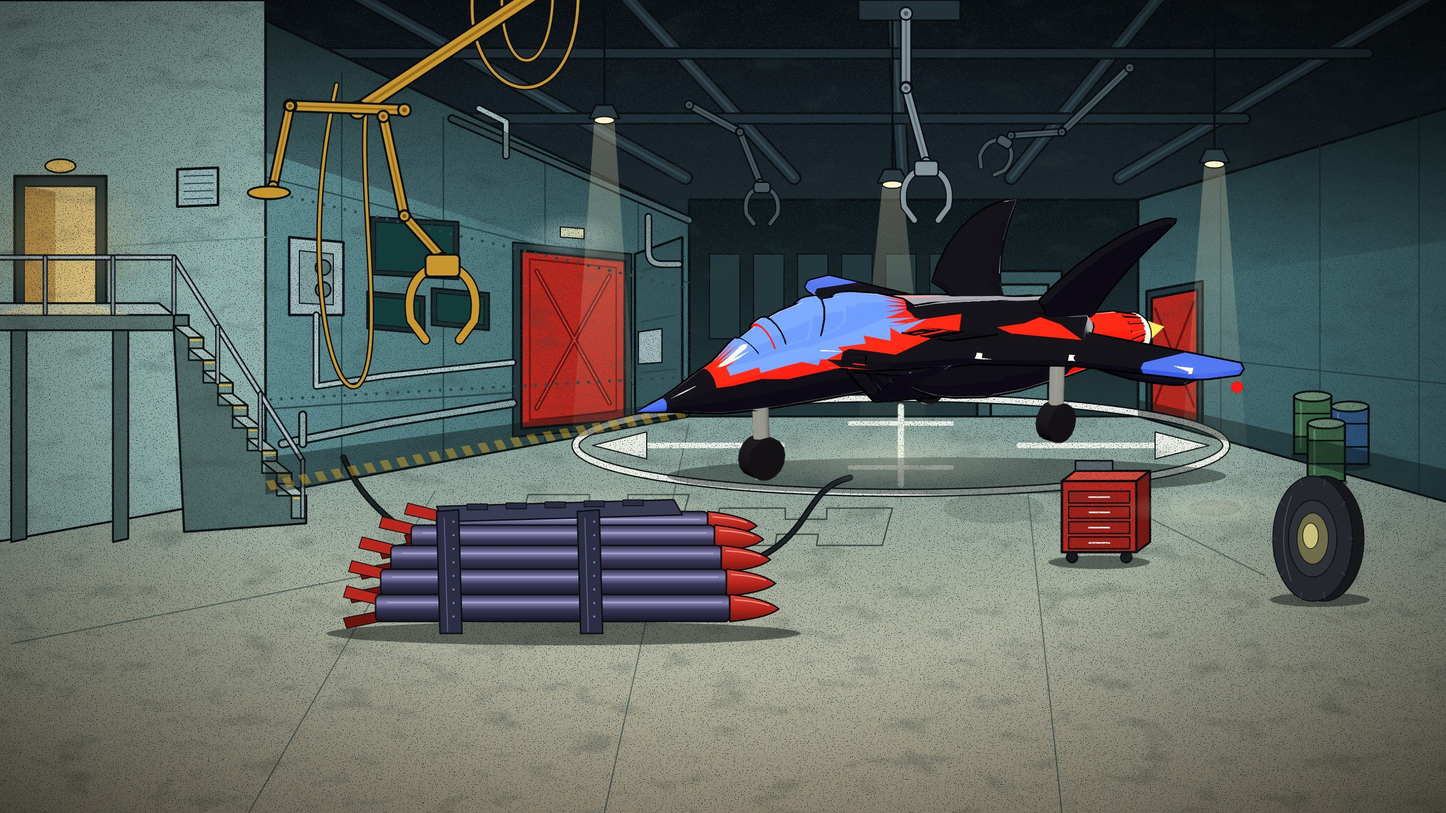
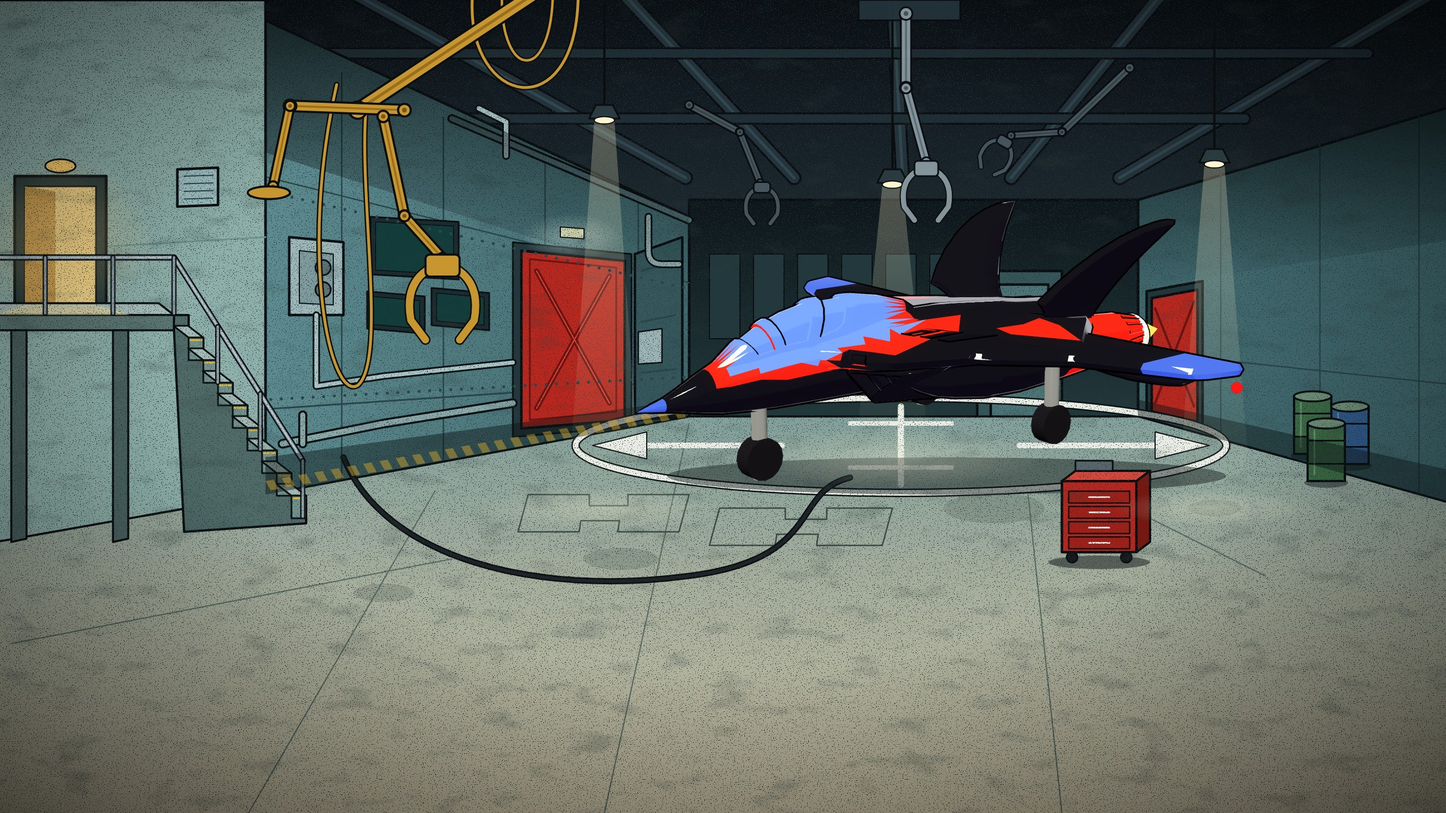
Hangar backdrop: drop the missile crate and the tyre
Claude-Session: https://claude.ai/code/session_01Jj18mYDWBx32ErxBPmLBu9

diff --git a/tools/prepare_hangar_art.py b/tools/prepare_hangar_art.py
@@ -3,14 +3,14 @@
 
 Composition follows the show's hangar frame in tools/launch_src/hangar_ref.png (used only as a
 layout reference): the left wall with a red blast door, the dark corridor with ceiling robot arms,
-the landing circle, stairs, a strapped crate of missiles and a tyre in the foreground. The
+the landing circle and stairs up to a landing. The
 TurboKat itself is not drawn here; the game renders our own 3D model onto the pad.
 
 Coordinates are the reference frame's (640x480) mapped to a 16:9 canvas at 3x, with extra wall
 at both sides so it also fills wide screens.
 
 Usage:  python3 tools/prepare_hangar_art.py   (needs Node + Playwright's Chromium, Godot, xvfb-run)
-Writes: web/launch/hangar.svg (layers: back, floor, arms, fore), web/launch/hangar.jpg (the
+Writes: web/launch/hangar.svg (layers: back, floor, stairs, props, grime, light, arms), web/launch/hangar.jpg (the
         backdrop), web/launch/turbokat_hangar.png (our TurboKat rendered by the game with
         `--hangarjet`, placed on the pad, same canvas size) and web/launch/hangar_preview.jpg
 """
@@ -110,12 +110,6 @@ def defs() -> str:
   </linearGradient>
   <linearGradient id="back" x1="0" y1="{Y(120)}" x2="0" y2="{Y(250)}" gradientUnits="userSpaceOnUse">
     <stop offset="0" stop-color="#0e171b"/><stop offset="1" stop-color="#22393c"/>
-  </linearGradient>
-  <linearGradient id="missile" x1="0" y1="0" x2="0" y2="1">
-    <stop offset="0" stop-color="#2a2840"/><stop offset="0.3" stop-color="#8a87b8"/><stop offset="0.55" stop-color="#3a3858"/><stop offset="1" stop-color="#151422"/>
-  </linearGradient>
-  <linearGradient id="nose" x1="0" y1="0" x2="0" y2="1">
-    <stop offset="0" stop-color="#e2463a"/><stop offset="0.5" stop-color="{RED}"/><stop offset="1" stop-color="{RED_DARK}"/>
   </linearGradient>
   <radialGradient id="glow" cx="0.5" cy="0.5" r="0.5">
     <stop offset="0" stop-color="#d8f0e8" stop-opacity="0.55"/><stop offset="1" stop-color="#d8f0e8" stop-opacity="0"/>
@@ -371,62 +365,6 @@ def arms() -> str:
     return "\n".join(o)
 
 
-def missile_crate() -> str:
-    """A strapped bundle of red-tipped missiles in the left foreground."""
-    # Drawn at the reference's foreground size, then set back beside the left wall at half size.
-    k = 0.5
-    tx, ty = X(96) - X(40) * k, Y(374) - Y(484) * k
-    o = [f'<g id="crate" transform="translate({tx:.1f} {ty:.1f}) scale({k})">']
-    o.append(f'<ellipse cx="{X(300)}" cy="{Y(484)}" rx="{280 * S}" ry="{14 * S}" fill="#0d1414" opacity="0.5"/>')
-    rows = [(360, 4), (388, 5), (418, 5), (450, 5)]
-    for (y, n) in rows:
-        pass
-    # Missiles: back row first, rows overlapping so the bundle reads as round and heavy.
-    layout = [(356, 150, 470), (372, 120, 478), (396, 96, 486), (424, 84, 492), (454, 78, 496)]
-    for (y, x0, x1) in layout:
-        r = 16
-        # Fins at the tail.
-        o.append(poly([(x0 + 14, y - r + 2), (x0 - 34, y - r - 10), (x0 - 38, y - r + 3), (x0 + 8, y - 3)], RED, width=3))
-        o.append(poly([(x0 + 14, y + r - 2), (x0 - 34, y + r + 8), (x0 - 38, y + r - 4), (x0 + 8, y + 3)], RED_DARK, width=3))
-        # Body.
-        o.append(f'<rect x="{X(x0)}" y="{Y(y - r)}" width="{(x1 - x0) * S}" height="{2 * r * S}" rx="{r * S * 0.35}" fill="url(#missile)" stroke="{INK}" stroke-width="5"/>')
-        o.append(line((x0 + 14, y - r * 0.42), (x1 - 10, y - r * 0.42), "#c4c1ec", 5, 'opacity="0.55"'))
-        # Nose cone.
-        o.append(path([("M", x1, y - r), ("Q", x1 + 44, y - r * 0.7, x1 + 58, y + 1), ("Q", x1 + 44, y + r * 0.75, x1, y + r), ("Z",)], fill="url(#nose)", width=5))
-        o.append(path([("M", x1 + 6, y - r * 0.6), ("Q", x1 + 32, y - r * 0.5, x1 + 46, y - 3)], stroke="#f39a8c", width=4))
-        o.append(line((x1, y - r + 2), (x1, y + r - 2), INK, 5))
-    # The crate frame: a top rail with a lid plate and two straps wrapping the bundle.
-    o.append(poly([(150, 334), (430, 326), (440, 344), (158, 352)], "#3a3c55", width=5))
-    for k in range(5):
-        o.append(f'<rect x="{X(186 + k * 46)}" y="{Y(331 - k * 1.2)}" width="{24 * S}" height="{7 * S}" fill="#2a2c42" stroke="{INK}" stroke-width="3"/>')
-    for xs in (150, 316):
-        o.append(poly([(xs, 340), (xs + 26, 338), (xs + 30, 484), (xs + 4, 484)], "#2c2e45", width=5))
-        o.append(line((xs + 9, 348), (xs + 13, 482), "#5f6286", 3.5))
-        for yy in range(352, 480, 16):
-            o.append(f'<circle cx="{X(xs + 20)}" cy="{Y(yy)}" r="4" fill="#7b7ea6"/>')
-    o.append("</g>")
-    return "\n".join(o)
-
-
-def tyre() -> str:
-    cx, cy = 640, 400
-    k = 0.42
-    tx, ty = X(668) - X(cx) * k, Y(318) - Y(cy) * k
-    o = [f'<g id="tyre" transform="translate({tx:.1f} {ty:.1f}) scale({k})">']
-    o.append(f'<ellipse cx="{X(cx + 10)}" cy="{Y(cy + 86)}" rx="{70 * S}" ry="{10 * S}" fill="#0d1414" opacity="0.5"/>')
-    o.append(f'<ellipse cx="{X(cx + 16)}" cy="{Y(cy)}" rx="{56 * S}" ry="{88 * S}" fill="#15171b" stroke="{INK}" stroke-width="4"/>')
-    o.append(f'<ellipse cx="{X(cx)}" cy="{Y(cy)}" rx="{56 * S}" ry="{88 * S}" fill="#24272d" stroke="{INK}" stroke-width="4"/>')
-    for k in range(10):
-        a = k / 10 * math.tau
-        o.append(line((cx + math.cos(a) * 50, cy + math.sin(a) * 79), (cx + math.cos(a) * 56, cy + math.sin(a) * 88), "#3a3e46", 4))
-    o.append(f'<ellipse cx="{X(cx)}" cy="{Y(cy)}" rx="{34 * S}" ry="{54 * S}" fill="#2e3238" stroke="{INK}" stroke-width="4"/>')
-    o.append(f'<ellipse cx="{X(cx)}" cy="{Y(cy)}" rx="{22 * S}" ry="{36 * S}" fill="#6f6d4a" stroke="{INK}" stroke-width="3"/>')
-    o.append(f'<ellipse cx="{X(cx - 3)}" cy="{Y(cy - 4)}" rx="{11 * S}" ry="{18 * S}" fill="#c9c27a" stroke="{INK}" stroke-width="3"/>')
-    o.append(path([("M", cx - 30, cy - 60), ("Q", cx - 52, cy, cx - 30, cy + 60)], stroke="#4a4f58", width=4))
-    o.append("</g>")
-    return "\n".join(o)
-
-
 def grime() -> str:
     """Speckle and stains over walls and floor, plus a vignette."""
     return f"""
@@ -506,7 +444,6 @@ def build_svg() -> str:
         ('grime', grime()),
         ('light', lighting()),
         ('arms', arms()),
-        ('fore', missile_crate() + tyre()),
     ]
     body = "\n".join(f'<g id="{name}">\n{svg}\n</g>' for name, svg in layers)
     return f'<svg xmlns="http://www.w3.org/2000/svg" viewBox="0 0 {W} {H}" width="{W}" height="{H}">{defs()}\n{body}\n</svg>\n'
@@ -558,8 +495,6 @@ def main() -> None:
     svg_path.write_text(build_svg())
     render(svg_path, OUT / "hangar.jpg")
     render_jet(OUT / "turbokat_hangar.png")
-    # Preview of the layers together: backdrop, jet, then the foreground drawn again on top
-    # would need a separate pass; the jet sits behind nothing in the foreground at this layout.
     preview = Image.open(OUT / "hangar.jpg").convert("RGBA")
     preview.alpha_composite(Image.open(OUT / "turbokat_hangar.png"))
     preview.convert("RGB").save(OUT / "hangar_preview.jpg", quality=88)
